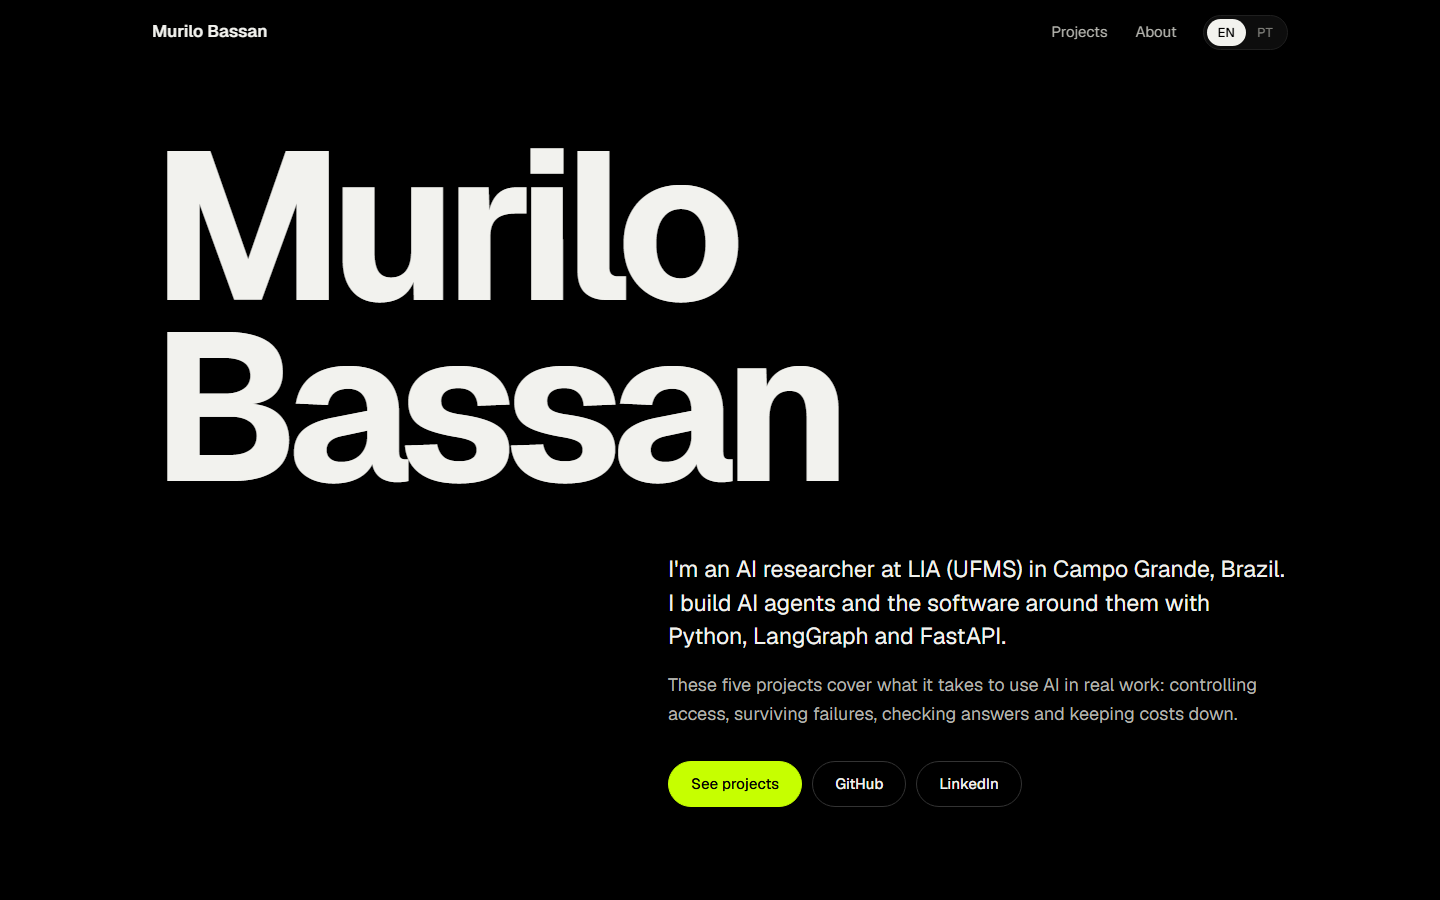
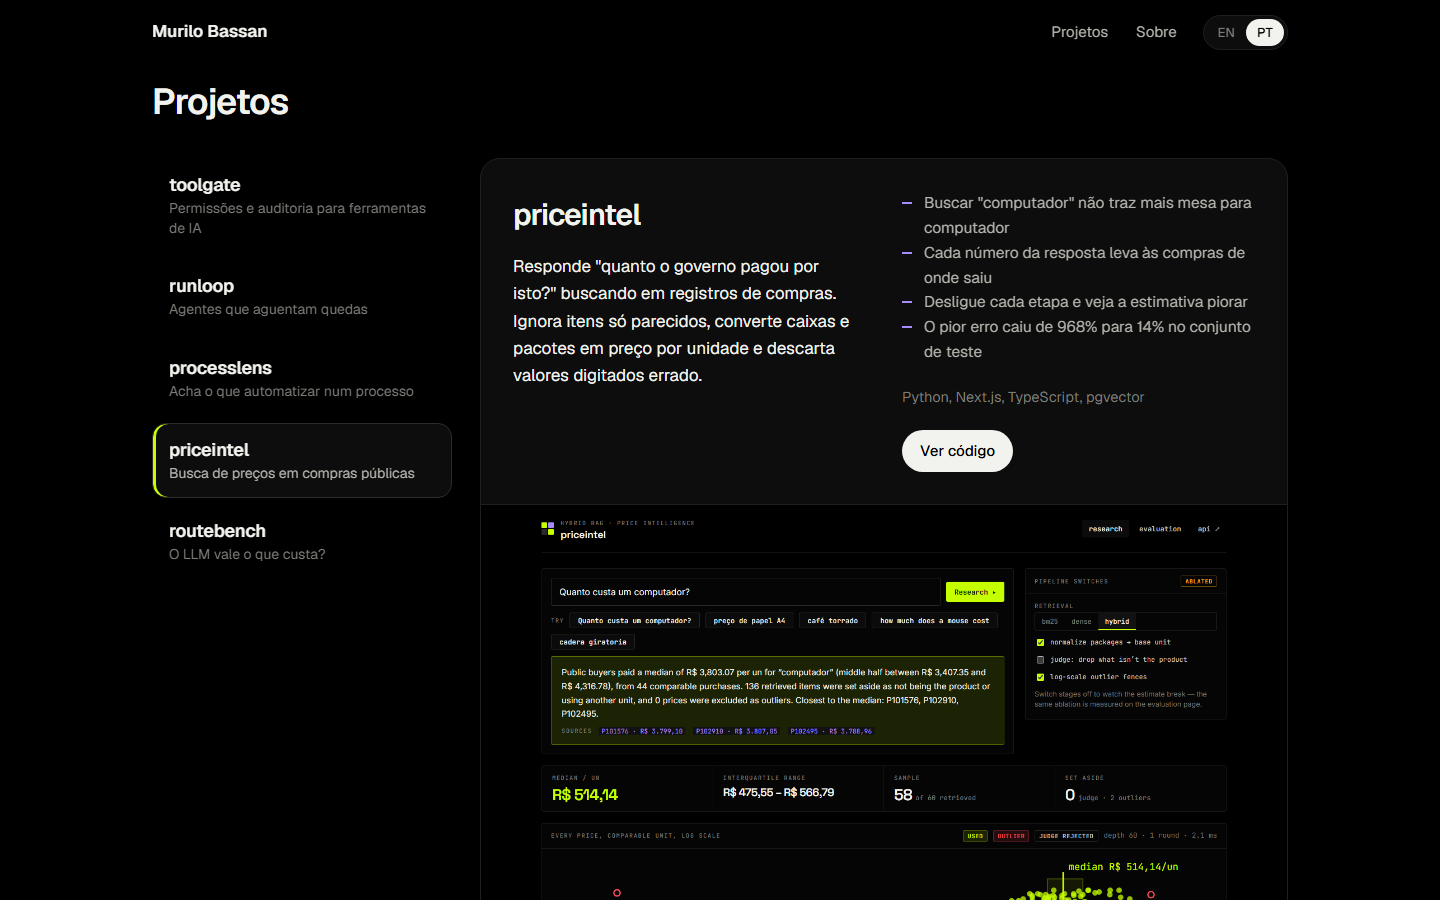
site: project tabs instead of a long scroll, smaller heading

diff --git a/index.html b/index.html
@@ -28,10 +28,11 @@
 
 <header class="hero" id="top">
   <div class="wrap">
-    <h1>Murilo<br>Bassan</h1>
     <div class="intro">
-      <p data-lang-en>I'm an AI researcher at LIA (UFMS) in Campo Grande, Brazil. I build AI agents and the software around them with Python, LangGraph and FastAPI.</p>
-      <p data-lang-pt>Sou pesquisador de IA no LIA (UFMS), em Campo Grande. Construo agentes de IA e o software em volta deles com Python, LangGraph e FastAPI.</p>
+      <h1 data-lang-en>I build AI agents and the software that keeps them reliable.</h1>
+      <h1 data-lang-pt>Construo agentes de IA e o software que os mantém confiáveis.</h1>
+      <p data-lang-en>I'm Murilo, an AI researcher at LIA (UFMS) in Campo Grande, Brazil, working with Python, LangGraph and FastAPI.</p>
+      <p data-lang-pt>Sou o Murilo, pesquisador de IA no LIA (UFMS), em Campo Grande, e trabalho com Python, LangGraph e FastAPI.</p>
       <p class="soft" data-lang-en>These five projects cover what it takes to use AI in real work: controlling access, surviving failures, checking answers and keeping costs down.</p>
       <p class="soft" data-lang-pt>Estes cinco projetos tratam do que é preciso para usar IA no trabalho de verdade: controlar acesso, aguentar falhas, conferir respostas e segurar o custo.</p>
       <div class="cta">
@@ -43,131 +44,166 @@
   </div>
 </header>
 
-<main id="projects">
-  <article class="project">
-    <div class="wrap grid">
-      <div class="text">
-        <h2>toolgate</h2>
-        <p class="what" data-lang-en>A control panel for the tools an AI assistant can use. You decide who can use each tool, passwords stay encrypted, and every call is logged so you can check later who did what.</p>
-        <p class="what" data-lang-pt>Um painel de controle para as ferramentas que um assistente de IA pode usar. Você decide quem usa cada ferramenta, as senhas ficam criptografadas e toda chamada fica registrada para conferir depois quem fez o quê.</p>
-        <ul data-lang-en>
+<main class="explorer" id="projects">
+  <div class="wrap">
+    <h2 class="section-title"><span data-lang-en>Projects</span><span data-lang-pt>Projetos</span></h2>
+    <div class="layout">
+      <div class="tabs" role="tablist" aria-label="Projects">
+      <button type="button" role="tab" id="t-toolgate" aria-controls="p-toolgate" aria-selected="true" tabindex="0">
+        <span class="t-name">toolgate</span>
+        <span class="t-line" data-lang-en>Permissions and audit for AI tools</span><span class="t-line" data-lang-pt>Permissões e auditoria para ferramentas de IA</span>
+      </button>
+      <button type="button" role="tab" id="t-runloop" aria-controls="p-runloop" aria-selected="false" tabindex="-1">
+        <span class="t-name">runloop</span>
+        <span class="t-line" data-lang-en>Agents that survive crashes</span><span class="t-line" data-lang-pt>Agentes que aguentam quedas</span>
+      </button>
+      <button type="button" role="tab" id="t-processlens" aria-controls="p-processlens" aria-selected="false" tabindex="-1">
+        <span class="t-name">processlens</span>
+        <span class="t-line" data-lang-en>Finds what to automate in a process</span><span class="t-line" data-lang-pt>Acha o que automatizar num processo</span>
+      </button>
+      <button type="button" role="tab" id="t-priceintel" aria-controls="p-priceintel" aria-selected="false" tabindex="-1">
+        <span class="t-name">priceintel</span>
+        <span class="t-line" data-lang-en>Price search over public purchases</span><span class="t-line" data-lang-pt>Busca de preços em compras públicas</span>
+      </button>
+      <button type="button" role="tab" id="t-routebench" aria-controls="p-routebench" aria-selected="false" tabindex="-1">
+        <span class="t-name">routebench</span>
+        <span class="t-line" data-lang-en>Is the LLM worth what it costs?</span><span class="t-line" data-lang-pt>O LLM vale o que custa?</span>
+      </button>
+      </div>
+      <div class="panels">
+    <section class="panel" role="tabpanel" id="p-toolgate" aria-labelledby="t-toolgate" tabindex="0">
+      <div class="body">
+        <div>
+          <h3>toolgate</h3>
+          <p class="what" data-lang-en>A control panel for the tools an AI assistant can use. You decide who can use each tool, passwords stay encrypted, and every call is logged so you can check later who did what.</p>
+          <p class="what" data-lang-pt>Um painel de controle para as ferramentas que um assistente de IA pode usar. Você decide quem usa cada ferramenta, as senhas ficam criptografadas e toda chamada fica registrada para conferir depois quem fez o quê.</p>
+        </div>
+        <div>
+          <ul data-lang-en>
           <li>Chat with the tools in plain language; conversations are saved</li>
           <li>A new tool only goes live after another person approves it</li>
           <li>The log notices if anyone edits an old record</li>
           <li>Works with Claude Desktop and any MCP client</li>
-        </ul>
-        <ul data-lang-pt>
+          </ul>
+          <ul data-lang-pt>
           <li>Converse com as ferramentas em linguagem natural; as conversas ficam salvas</li>
           <li>Ferramenta nova só entra no ar depois que outra pessoa aprova</li>
           <li>O registro percebe se alguém mexer num evento antigo</li>
           <li>Funciona com o Claude Desktop e qualquer cliente MCP</li>
-        </ul>
-        <p class="stack">Python, FastAPI, MCP, SQLite, Docker</p>
-        <a class="code" href="https://github.com/murilo-bassan/mcp-tool-gateway" target="_blank" rel="noreferrer"><span data-lang-en>View code</span><span data-lang-pt>Ver código</span></a>
+          </ul>
+          <p class="stack">Python, FastAPI, MCP, SQLite, Docker</p>
+          <a class="code" href="https://github.com/murilo-bassan/mcp-tool-gateway" target="_blank" rel="noreferrer"><span data-lang-en>View code</span><span data-lang-pt>Ver código</span></a>
+        </div>
       </div>
       <a class="shot" href="assets/gateway.png" target="_blank" rel="noreferrer"><img src="assets/gateway.png" alt="toolgate dashboard" loading="lazy"></a>
-    </div>
-  </article>
-
-  <article class="project">
-    <div class="wrap grid">
-      <div class="text">
-        <h2>runloop</h2>
-        <p class="what" data-lang-en>Runs AI agents on long tasks without losing work. If the server goes down halfway, the agent continues where it stopped and nothing is done twice.</p>
-        <p class="what" data-lang-pt>Roda agentes de IA em tarefas longas sem perder trabalho. Se o servidor cair no meio, o agente continua de onde parou e nada é feito duas vezes.</p>
-        <ul data-lang-en>
+    </section>
+    <section class="panel" role="tabpanel" id="p-runloop" aria-labelledby="t-runloop" tabindex="0" hidden>
+      <div class="body">
+        <div>
+          <h3>runloop</h3>
+          <p class="what" data-lang-en>Runs AI agents on long tasks without losing work. If the server goes down halfway, the agent continues where it stopped and nothing is done twice.</p>
+          <p class="what" data-lang-pt>Roda agentes de IA em tarefas longas sem perder trabalho. Se o servidor cair no meio, o agente continua de onde parou e nada é feito duas vezes.</p>
+        </div>
+        <div>
+          <ul data-lang-en>
           <li>Asks a person before actions like placing an order</li>
           <li>Token limit per user, so costs can't run away</li>
           <li>Shows each step of the agent live</li>
           <li>Tested by killing a worker mid-run: 24 of 24 tasks finished, no duplicate orders</li>
-        </ul>
-        <ul data-lang-pt>
+          </ul>
+          <ul data-lang-pt>
           <li>Pede aprovação de uma pessoa antes de ações como fazer um pedido</li>
           <li>Limite de tokens por usuário, para o custo não sair do controle</li>
           <li>Mostra cada passo do agente ao vivo</li>
           <li>Testado derrubando um worker no meio: 24 de 24 tarefas concluídas, nenhum pedido duplicado</li>
-        </ul>
-        <p class="stack">Python, PostgreSQL, FastAPI, Docker</p>
-        <a class="code" href="https://github.com/murilo-bassan/durable-agent-runtime" target="_blank" rel="noreferrer"><span data-lang-en>View code</span><span data-lang-pt>Ver código</span></a>
+          </ul>
+          <p class="stack">Python, PostgreSQL, FastAPI, Docker</p>
+          <a class="code" href="https://github.com/murilo-bassan/durable-agent-runtime" target="_blank" rel="noreferrer"><span data-lang-en>View code</span><span data-lang-pt>Ver código</span></a>
+        </div>
       </div>
       <a class="shot" href="assets/runtime.png" target="_blank" rel="noreferrer"><img src="assets/runtime.png" alt="runloop console" loading="lazy"></a>
-    </div>
-  </article>
-
-  <article class="project">
-    <div class="wrap grid">
-      <div class="text">
-        <h2>processlens</h2>
-        <p class="what" data-lang-en>Reads a business process (a BPMN diagram plus its written description) and suggests what could be automated. Each suggestion points to the part of the document that backs it up.</p>
-        <p class="what" data-lang-pt>Lê um processo de negócio (o diagrama BPMN e a descrição escrita) e sugere o que dá para automatizar. Cada sugestão aponta o trecho do documento que a justifica.</p>
-        <ul data-lang-en>
+    </section>
+    <section class="panel" role="tabpanel" id="p-processlens" aria-labelledby="t-processlens" tabindex="0" hidden>
+      <div class="body">
+        <div>
+          <h3>processlens</h3>
+          <p class="what" data-lang-en>Reads a business process (a BPMN diagram plus its written description) and suggests what could be automated. Each suggestion points to the part of the document that backs it up.</p>
+          <p class="what" data-lang-pt>Lê um processo de negócio (o diagrama BPMN e a descrição escrita) e sugere o que dá para automatizar. Cada sugestão aponta o trecho do documento que a justifica.</p>
+        </div>
+        <div>
+          <ul data-lang-en>
           <li>Suggestions with no source in the documents are thrown out</li>
           <li>Scores come from a fixed checklist, so the same answers always give the same score</li>
           <li>Exports the report to Word, HTML or JSON</li>
           <li>Built as a LangGraph pipeline, one step per job</li>
-        </ul>
-        <ul data-lang-pt>
+          </ul>
+          <ul data-lang-pt>
           <li>Sugestão sem fonte nos documentos é descartada</li>
           <li>A nota vem de um checklist fixo: mesmas respostas, mesma nota</li>
           <li>Exporta o relatório em Word, HTML ou JSON</li>
           <li>Feito como um pipeline LangGraph, uma etapa para cada tarefa</li>
-        </ul>
-        <p class="stack">Python, LangGraph, Pydantic, FastAPI</p>
-        <a class="code" href="https://github.com/murilo-bassan/process-automation-agents" target="_blank" rel="noreferrer"><span data-lang-en>View code</span><span data-lang-pt>Ver código</span></a>
+          </ul>
+          <p class="stack">Python, LangGraph, Pydantic, FastAPI</p>
+          <a class="code" href="https://github.com/murilo-bassan/process-automation-agents" target="_blank" rel="noreferrer"><span data-lang-en>View code</span><span data-lang-pt>Ver código</span></a>
+        </div>
       </div>
       <a class="shot" href="assets/processlens.png" target="_blank" rel="noreferrer"><img src="assets/processlens.png" alt="processlens report" loading="lazy"></a>
-    </div>
-  </article>
-
-  <article class="project">
-    <div class="wrap grid">
-      <div class="text">
-        <h2>priceintel</h2>
-        <p class="what" data-lang-en>Answers "how much did the government pay for this?" by searching purchase records. It skips items that only look similar, turns boxes and packs into unit prices, and drops values typed in wrong.</p>
-        <p class="what" data-lang-pt>Responde "quanto o governo pagou por isto?" buscando em registros de compras. Ignora itens só parecidos, converte caixas e pacotes em preço por unidade e descarta valores digitados errado.</p>
-        <ul data-lang-en>
+    </section>
+    <section class="panel" role="tabpanel" id="p-priceintel" aria-labelledby="t-priceintel" tabindex="0" hidden>
+      <div class="body">
+        <div>
+          <h3>priceintel</h3>
+          <p class="what" data-lang-en>Answers "how much did the government pay for this?" by searching purchase records. It skips items that only look similar, turns boxes and packs into unit prices, and drops values typed in wrong.</p>
+          <p class="what" data-lang-pt>Responde "quanto o governo pagou por isto?" buscando em registros de compras. Ignora itens só parecidos, converte caixas e pacotes em preço por unidade e descarta valores digitados errado.</p>
+        </div>
+        <div>
+          <ul data-lang-en>
           <li>Searching "computer" no longer returns computer desks</li>
           <li>Every number in the answer links to the purchases behind it</li>
           <li>Turn each step off and watch the estimate get worse</li>
           <li>Worst error went from 968% to 14% on the test set</li>
-        </ul>
-        <ul data-lang-pt>
+          </ul>
+          <ul data-lang-pt>
           <li>Buscar "computador" não traz mais mesa para computador</li>
           <li>Cada número da resposta leva às compras de onde saiu</li>
           <li>Desligue cada etapa e veja a estimativa piorar</li>
           <li>O pior erro caiu de 968% para 14% no conjunto de teste</li>
-        </ul>
-        <p class="stack">Python, Next.js, TypeScript, pgvector</p>
-        <a class="code" href="https://github.com/murilo-bassan/hybrid-rag-price-intel" target="_blank" rel="noreferrer"><span data-lang-en>View code</span><span data-lang-pt>Ver código</span></a>
+          </ul>
+          <p class="stack">Python, Next.js, TypeScript, pgvector</p>
+          <a class="code" href="https://github.com/murilo-bassan/hybrid-rag-price-intel" target="_blank" rel="noreferrer"><span data-lang-en>View code</span><span data-lang-pt>Ver código</span></a>
+        </div>
       </div>
       <a class="shot" href="assets/priceintel.png" target="_blank" rel="noreferrer"><img src="assets/priceintel.png" alt="priceintel search" loading="lazy"></a>
-    </div>
-  </article>
-
-  <article class="project">
-    <div class="wrap grid">
-      <div class="text">
-        <h2>routebench</h2>
-        <p class="what" data-lang-en>Compares ways to decide which tool should handle a request, from a simple keyword list to an LLM, and shows which one is worth what it costs.</p>
-        <p class="what" data-lang-pt>Compara formas de decidir qual ferramenta deve atender um pedido, de uma lista de palavras-chave até um LLM, e mostra qual vale o que custa.</p>
-        <ul data-lang-en>
+    </section>
+    <section class="panel" role="tabpanel" id="p-routebench" aria-labelledby="t-routebench" tabindex="0" hidden>
+      <div class="body">
+        <div>
+          <h3>routebench</h3>
+          <p class="what" data-lang-en>Compares ways to decide which tool should handle a request, from a simple keyword list to an LLM, and shows which one is worth what it costs.</p>
+          <p class="what" data-lang-pt>Compara formas de decidir qual ferramenta deve atender um pedido, de uma lista de palavras-chave até um LLM, e mostra qual vale o que custa.</p>
+        </div>
+        <div>
+          <ul data-lang-en>
           <li>Counts how often each method acts on requests it should refuse</li>
           <li>Tells you when a difference is just noise</li>
           <li>Uses the expensive method only when the cheap one isn't sure</li>
           <li>Generates an HTML report you can open in any browser</li>
-        </ul>
-        <ul data-lang-pt>
+          </ul>
+          <ul data-lang-pt>
           <li>Conta quantas vezes cada método age num pedido que deveria recusar</li>
           <li>Avisa quando uma diferença é só ruído</li>
           <li>Usa o método caro só quando o barato não tem certeza</li>
           <li>Gera um relatório HTML que abre em qualquer navegador</li>
-        </ul>
-        <p class="stack">Python, NumPy, estatística</p>
-        <a class="code" href="https://github.com/murilo-bassan/llm-routing-eval-lab" target="_blank" rel="noreferrer"><span data-lang-en>View code</span><span data-lang-pt>Ver código</span></a>
+          </ul>
+          <p class="stack">Python, NumPy, estatística</p>
+          <a class="code" href="https://github.com/murilo-bassan/llm-routing-eval-lab" target="_blank" rel="noreferrer"><span data-lang-en>View code</span><span data-lang-pt>Ver código</span></a>
+        </div>
       </div>
       <a class="shot" href="assets/routebench.png" target="_blank" rel="noreferrer"><img src="assets/routebench.png" alt="routebench report" loading="lazy"></a>
+    </section>
+      </div>
     </div>
-  </article>
+  </div>
 </main>
 
 <section class="about" id="about">
@@ -207,6 +243,33 @@
     const browserPt = (navigator.language || "").toLowerCase().startsWith("pt");
     set(saved || (browserPt ? "pt-BR" : "en"));
     buttons.forEach((b) => b.addEventListener("click", () => set(b.dataset.setLang)));
+  })();
+
+  // Project tabs: click or arrow keys switch; #name in the URL opens that project.
+  (function () {
+    const tabs = Array.from(document.querySelectorAll("[role=tab]"));
+    function select(tab, focus) {
+      tabs.forEach((t) => {
+        const on = t === tab;
+        t.setAttribute("aria-selected", String(on));
+        t.tabIndex = on ? 0 : -1;
+        document.getElementById(t.getAttribute("aria-controls")).hidden = !on;
+      });
+      if (focus) tab.focus();
+      tab.scrollIntoView({ block: "nearest", inline: "nearest" });
+      history.replaceState(null, "", "#" + tab.id.slice(2));
+    }
+    tabs.forEach((t, i) => {
+      t.addEventListener("click", () => select(t));
+      t.addEventListener("keydown", (e) => {
+        const step = { ArrowDown: 1, ArrowRight: 1, ArrowUp: -1, ArrowLeft: -1 }[e.key];
+        if (!step) return;
+        e.preventDefault();
+        select(tabs[(i + step + tabs.length) % tabs.length], true);
+      });
+    });
+    const fromHash = document.getElementById("t-" + location.hash.slice(1));
+    if (fromHash) { select(fromHash); document.getElementById("projects").scrollIntoView(); }
   })();
 </script>
 </body>

diff --git a/styles.css b/styles.css
@@ -31,32 +31,44 @@ nav .wrap { display: flex; align-items: center; justify-content: space-between; 
 .lang button { border: 0; background: transparent; color: var(--muted); padding: 5px 11px; border-radius: 999px; font: 500 13px var(--font); cursor: pointer; }
 .lang button[aria-pressed="true"] { background: var(--ink); color: #000; }
 
-/* hero: the name is the one loud thing on the page */
-.hero { padding: 72px 0 112px; }
-.hero h1 { font-weight: 700; font-size: clamp(72px, 15vw, 210px); line-height: .86; letter-spacing: -.055em; margin: 0 0 56px; }
-.intro { max-width: 620px; margin-left: auto; }
-.intro p { font-size: clamp(19px, 2vw, 23px); line-height: 1.45; margin: 0 0 18px; }
-.intro p.soft { color: var(--soft); font-size: 18px; line-height: 1.6; }
-.cta { display: flex; gap: 10px; flex-wrap: wrap; margin-top: 32px; }
+/* hero */
+.hero { padding: 80px 0 64px; }
+.intro { max-width: 760px; }
+.hero h1 { font-weight: 600; font-size: clamp(36px, 5vw, 58px); line-height: 1.04; letter-spacing: -.035em; margin: 0 0 24px; }
+.intro p { color: var(--soft); font-size: 19px; line-height: 1.55; margin: 0 0 14px; max-width: 40em; }
+.cta { display: flex; gap: 10px; flex-wrap: wrap; margin-top: 30px; }
 .btn { display: inline-flex; align-items: center; height: 46px; padding: 0 22px; border-radius: 999px; border: 1px solid #333; font-weight: 500; font-size: 15px; text-decoration: none; }
 .btn:hover { border-color: var(--ink); }
 .btn.primary { background: var(--lime); color: #000; border-color: var(--lime); }
 .btn.primary:hover { background: #d6ff4d; }
 
-/* projects */
-.project { padding: 88px 0; border-top: 1px solid var(--line); }
-.grid { display: grid; grid-template-columns: minmax(0, 5fr) minmax(0, 7fr); gap: 56px; align-items: center; }
-.project h2 { font-weight: 600; font-size: clamp(36px, 4.4vw, 52px); line-height: 1; letter-spacing: -.035em; margin: 0 0 20px; }
-.project p.what { color: var(--ink); font-size: 18px; margin: 0 0 24px; max-width: 34em; }
-.project ul { list-style: none; padding: 0; margin: 0 0 24px; display: grid; gap: 10px; }
-.project li { position: relative; padding-left: 22px; color: var(--soft); font-size: 16px; }
-.project li::before { content: ""; position: absolute; left: 0; top: .7em; width: 10px; height: 2px; background: var(--violet); }
-.stack { color: var(--muted); font-size: 15px; margin: 0 0 22px; }
-.code { display: inline-block; color: var(--lime); font-weight: 500; text-decoration: none; border-bottom: 1px solid rgba(198, 255, 0, .35); padding-bottom: 2px; }
-.code:hover { border-color: var(--lime); }
-.shot { display: block; border-radius: 16px; overflow: hidden; border: 1px solid var(--line); background: var(--raised); cursor: zoom-in; }
-.shot img { width: 100%; transition: transform .4s ease; }
-.shot:hover img { transform: scale(1.015); }
+/* project explorer: a list of projects on the left, the selected one on the right */
+.explorer { padding: 72px 0 96px; border-top: 1px solid var(--line); }
+.section-title { font-weight: 600; font-size: clamp(28px, 3vw, 36px); letter-spacing: -.03em; margin: 0 0 28px; }
+.layout { display: grid; grid-template-columns: 300px minmax(0, 1fr); gap: 28px; align-items: start; }
+.tabs { display: flex; flex-direction: column; gap: 6px; position: sticky; top: 88px; }
+.tabs button { display: flex; flex-direction: column; gap: 3px; text-align: left; padding: 14px 16px; border-radius: 14px; border: 1px solid transparent;
+  background: transparent; color: var(--ink); font-family: var(--font); cursor: pointer; transition: background .2s, border-color .2s; }
+.tabs button:hover { background: var(--raised); }
+.tabs button[aria-selected="true"] { background: var(--raised); border-color: #2c2c2c; box-shadow: inset 3px 0 0 var(--lime); }
+.t-name { font-weight: 600; font-size: 18px; letter-spacing: -.01em; }
+.t-line { color: var(--muted); font-size: 14px; line-height: 1.4; }
+.tabs button[aria-selected="true"] .t-line { color: var(--soft); }
+
+.panel { border: 1px solid var(--line); border-radius: 20px; background: var(--raised); overflow: hidden; animation: show .35s ease; }
+.panel:focus-visible { outline-offset: 4px; }
+@keyframes show { from { opacity: 0; transform: translateY(6px); } to { opacity: 1; transform: none; } }
+.shot { display: block; border-top: 1px solid var(--line); cursor: zoom-in; background: #000; }
+.shot img { width: 100%; }
+.body { display: grid; grid-template-columns: 1fr 1fr; gap: 36px; padding: 32px; }
+.panel h3 { font-weight: 600; font-size: 30px; letter-spacing: -.03em; margin: 0 0 14px; }
+.panel p.what { margin: 0 0 22px; font-size: 17px; }
+.panel ul { list-style: none; padding: 0; margin: 0 0 20px; display: grid; gap: 10px; }
+.panel li { position: relative; padding-left: 22px; color: var(--soft); font-size: 15.5px; }
+.panel li::before { content: ""; position: absolute; left: 0; top: .7em; width: 10px; height: 2px; background: var(--violet); }
+.stack { color: var(--muted); font-size: 14.5px; margin: 0 0 22px; }
+.code { display: inline-flex; align-items: center; height: 42px; padding: 0 18px; border-radius: 999px; background: var(--ink); color: #000; font-weight: 500; font-size: 15px; text-decoration: none; }
+.code:hover { background: var(--lime); }
 
 /* about */
 .about { padding: 96px 0; border-top: 1px solid var(--line); }
@@ -76,15 +88,20 @@ html[lang="pt-BR"] [data-lang-pt] { display: revert; }
 
 @media (max-width: 900px) {
   .wrap { padding: 0 16px; }
-  .hero { padding: 48px 0 72px; }
-  .hero h1 { margin-bottom: 36px; }
-  .intro { margin-left: 0; }
-  .grid { grid-template-columns: 1fr; gap: 32px; }
-  .project { padding: 64px 0; }
+  .hero { padding: 48px 0 56px; }
+  .explorer { padding: 56px 0 72px; }
+  .layout { grid-template-columns: 1fr; gap: 16px; }
+  .tabs { position: static; flex-direction: row; overflow-x: auto; scrollbar-width: none; margin: 0 -16px; padding: 0 16px; }
+  .tabs button { flex: none; padding: 10px 16px; border-radius: 999px; border-color: var(--line); }
+  .tabs button[aria-selected="true"] { box-shadow: none; background: var(--ink); color: #000; }
+  .t-line { display: none !important; }
+  .t-name { font-size: 15px; }
+  .body { grid-template-columns: 1fr; gap: 8px; padding: 22px; }
+  .panel { border-radius: 16px; }
   .cols { grid-template-columns: 1fr; gap: 16px; }
   .links a { padding: 8px; }
 }
 @media (prefers-reduced-motion: reduce) {
   html { scroll-behavior: auto; }
-  .shot img { transition: none; }
+  .panel { animation: none; }
 }
